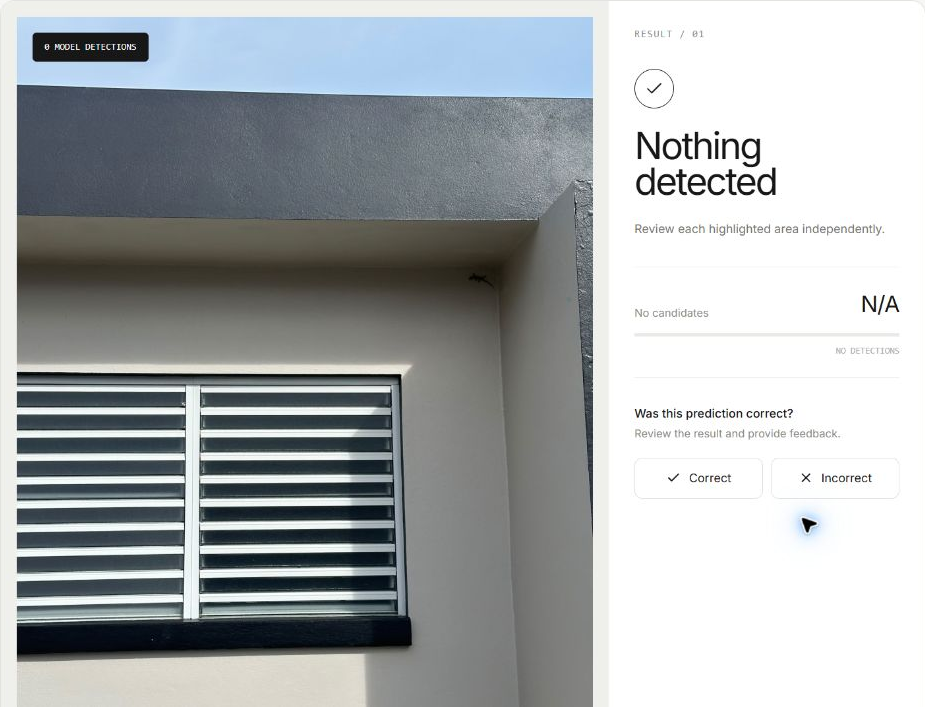
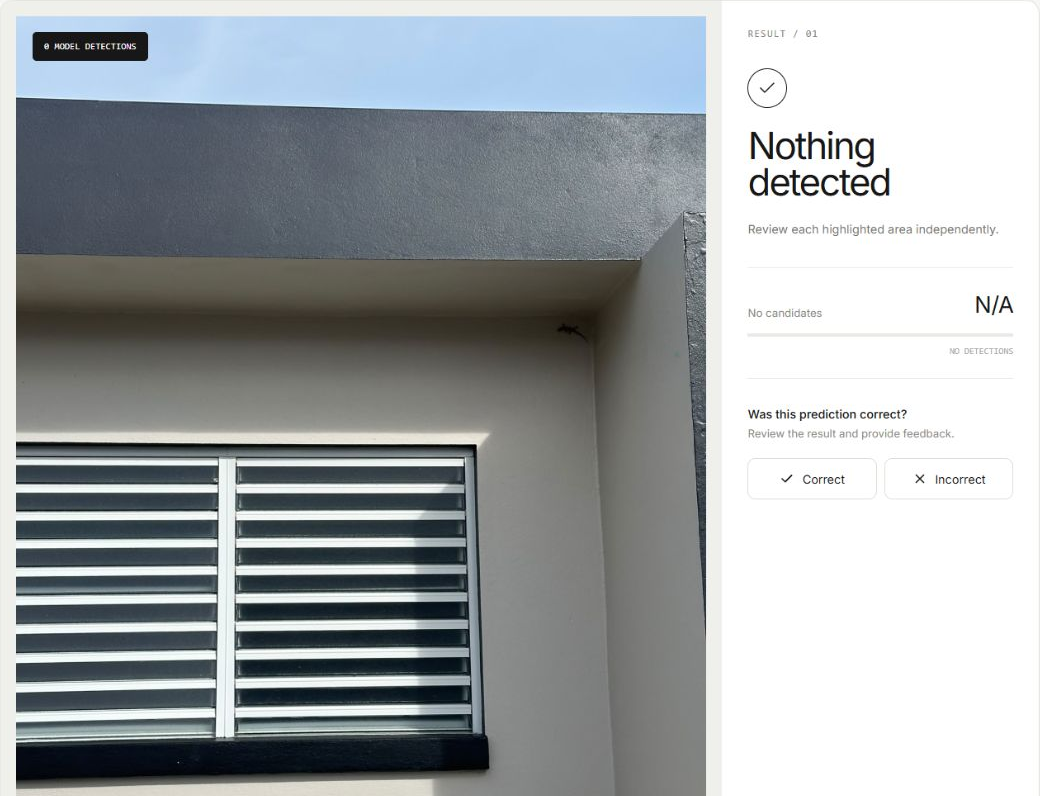
docs: replace cursor captures and retain one distant lizard example

diff --git a/docs/phase4/figures/figure-inventory.md b/docs/phase4/figures/figure-inventory.md
@@ -13,24 +13,25 @@ All paths below are relative to the repository root. Figure links resolve within
 - **Caption:** Detection results from the running application show a genuine lizard prediction from `yolov8s-oiv7`, its bounding box, a 74.4% confidence score (stored value: 0.7435), and the available verification controls.
 - **Verification:** An unchanged public-domain photograph of a green anole was analyzed through the running Next.js `/api/detectra/analyze` route, FastAPI, and YOLO. The browser displayed the resulting saved image record; the box and score were rendered by the application.
 - **Capture method:** An isolated Docker Compose project used a fresh database and local storage. Because browser file selection was unavailable, a multipart HTTP client submitted the original photograph to the actual Next.js route. The resulting URL was then opened in the browser. We selected the existing Demo Reviewer record and revealed the detection before capturing the page. The upload-button interaction itself was not captured or demonstrated in this session.
[2 lines of base64/hex data omitted]
 
-### Supplementary Figure 1b / 1c — Distant Lizard: Missed Detections
+### Supplementary Figure 1b — Distant Lizard: Missed Detection
 
-- **Files/type:** [figure-01b-distant-lizard-no-detection.png](figure-01b-distant-lizard-no-detection.png), 925 × 707 px; [figure-01c-distant-lizard-no-detection.png](figure-01c-distant-lizard-no-detection.png), 925 × 795 px. Authentic application screenshot crops; these supplement Figure 1 without renumbering Figures 2–7.
-- **Caption:** Two user-supplied photographs contain a visible lizard near a shaded building corner, but the unchanged detector returns no candidates in either image. These cases illustrate missed detections under the tested conditions.
-- **Sources and authorization:** The project owner supplied `WhatsApp Image 2026-11-20 at 4.25.23 PM.jpeg` and `WhatsApp Image 2026-11-20 at 4.25.24 PM.jpeg`, and explicitly authorized including both as GitHub evidence. Permission applies to this project evidence; no public-domain license is asserted for these photographs.
+- **File/type:** [figure-01b-distant-lizard-no-detection.png](figure-01b-distant-lizard-no-detection.png), 1040 × 796 px. Authentic application screenshot crop; this supplements Figure 1 without renumbering Figures 2–7.
+- **Caption:** A user-supplied photograph contains a visible small lizard near a shaded building corner, but the unchanged detector returns no candidates. This case illustrates a missed detection under the tested conditions.
+- **Sources and authorization:** The project owner supplied `WhatsApp Image 2026-11-20 at 4.25.23 PM.jpeg` and authorized its publication as project evidence; no public-domain license is asserted. At the owner's request, only this farther view is retained in the figures and report. The similar second view, `WhatsApp Image 2026-11-20 at 4.25.24 PM.jpeg`, was omitted from the current figure delivery to avoid redundant illustrations.
 - **Method:** Each complete 1536 × 2048 image was submitted once through the same local Next.js analysis endpoint, with `yolov8s-oiv7`, confidence threshold 0.25, and the existing inference settings. Neither image was cropped, enhanced, used for training, or used to change settings before inference. The final screenshot crops remove surrounding navigation and retain the visible animal and the application's unchanged zero-detection result.
[2 lines of base64/hex data omitted]
+- **Replacement capture:** On November 20, the existing Figure 1b result was reopened and captured again. The cursor was moved outside the result panel before capture; the panel was cropped from that new screenshot. No inference, review submission, image enhancement, or result modification was performed.
 - **Interpretation and limits:** These are two qualitative false-negative examples, not a representative sample or a measured accuracy rate. The animal occupies a small area and lies in shadow; scale, contrast, image compression, and model coverage are possible influences, but the experiment does not isolate a cause. Two views of a similar scene are not independent evidence of general performance. When reloading an empty result, the UI says the model was not recorded because no detection-linked model record is available; the original analysis response identifies the actual model used. Physical RTSP operation remains untested.
 
 
-### Supplementary Figure 1d — Person Detection
+### Supplementary Figure 1c — Person Detection
 
-- **File/type:** [figure-01d-person-detection.jpg](figure-01d-person-detection.jpg), 1371 × 1271 px; authentic application screenshot.
+- **File/type:** [figure-01c-person-detection.jpg](figure-01c-person-detection.jpg), 1040 × 724 px; authentic application screenshot crop. Renumbered from Figure 1d after removal of the redundant lizard illustration.
[1 lines of base64/hex data omitted]
 - **Method/result:** The same actual Next.js analysis route and unchanged `yolov8s-oiv7` model returned one `person` prediction, confidence `0.5337` (UI: 53.4%), `simulated=false`. The saved result was opened in the browser before this capture. Image `020e6dea-00fd-42be-870e-77e2037c6608`; detection `f294ad2a-fe94-4b80-8f8f-215d0602f329`.
-- **Verification:** A subsequent Correct verdict was submitted through the interface. Reload and PostgreSQL checks confirmed persisted review `d19fba9e-4f2f-4d90-99bb-45d10edcee29`, `human_verified=true`, one confirmed target, and unchanged confidence. The screenshot shows the pre-verification state.
+- **Verification:** A subsequent Correct verdict was submitted through the interface. Reload and PostgreSQL checks confirmed persisted review `d19fba9e-4f2f-4d90-99bb-45d10edcee29`, `human_verified=true`, one confirmed target, and unchanged confidence. The replacement screenshot shows this already saved verdict after reload. The cursor was moved outside the result panel before recapture and panel cropping; no new inference or review was submitted.
 - **Limitations:** One person example demonstrates the broader category workflow, not overall person-detection accuracy. Category detection does not identify a person or authenticate a reviewer. These images were not used for training or tuning.
 
 ## Figure 2 — Human Verification Interface
@@ -87,7 +88,7 @@ All paths below are relative to the repository root. Figure links resolve within
 
 Use the report's existing seven figure locations and captions as the insertion guide. Preserve aspect ratio. Use a full portrait page for Figure 3 and generous full-width or landscape placement for Figures 4 and 6. For projected slides, show architecture and sequence details progressively; do not shrink all sequence messages into one 16:9 slide. The Mermaid sources allow labels and layout to be adjusted before regenerating exports. Screenshot crops retain their native detail; enlarging Figure 7 does not add resolution.
 
-All seven primary PNGs and both supplementary PNGs were opened for visual inspection. SVG rendering, filenames, dimensions, labels, arrow placement, and allowed repository scope were checked. The captures contain no credentials. The two supplementary photographs are included with the project owner's explicit publication authorization. The physical-camera test planned for November 23 remains unverified; no outcome from that future test is represented here.
+All seven primary PNGs and the two supplementary images (one lizard PNG and one person JPEG) were opened for visual inspection. The replacement captures contain no visible cursor. SVG rendering, filenames, dimensions, labels, arrow placement, and allowed repository scope were checked. The captures contain no credentials. The retained user photograph is included with the project owner's explicit publication authorization. The physical-camera test planned for November 23 remains unverified; no outcome from that future test is represented here.
 
 
 ## Regenerating the Mermaid exports
